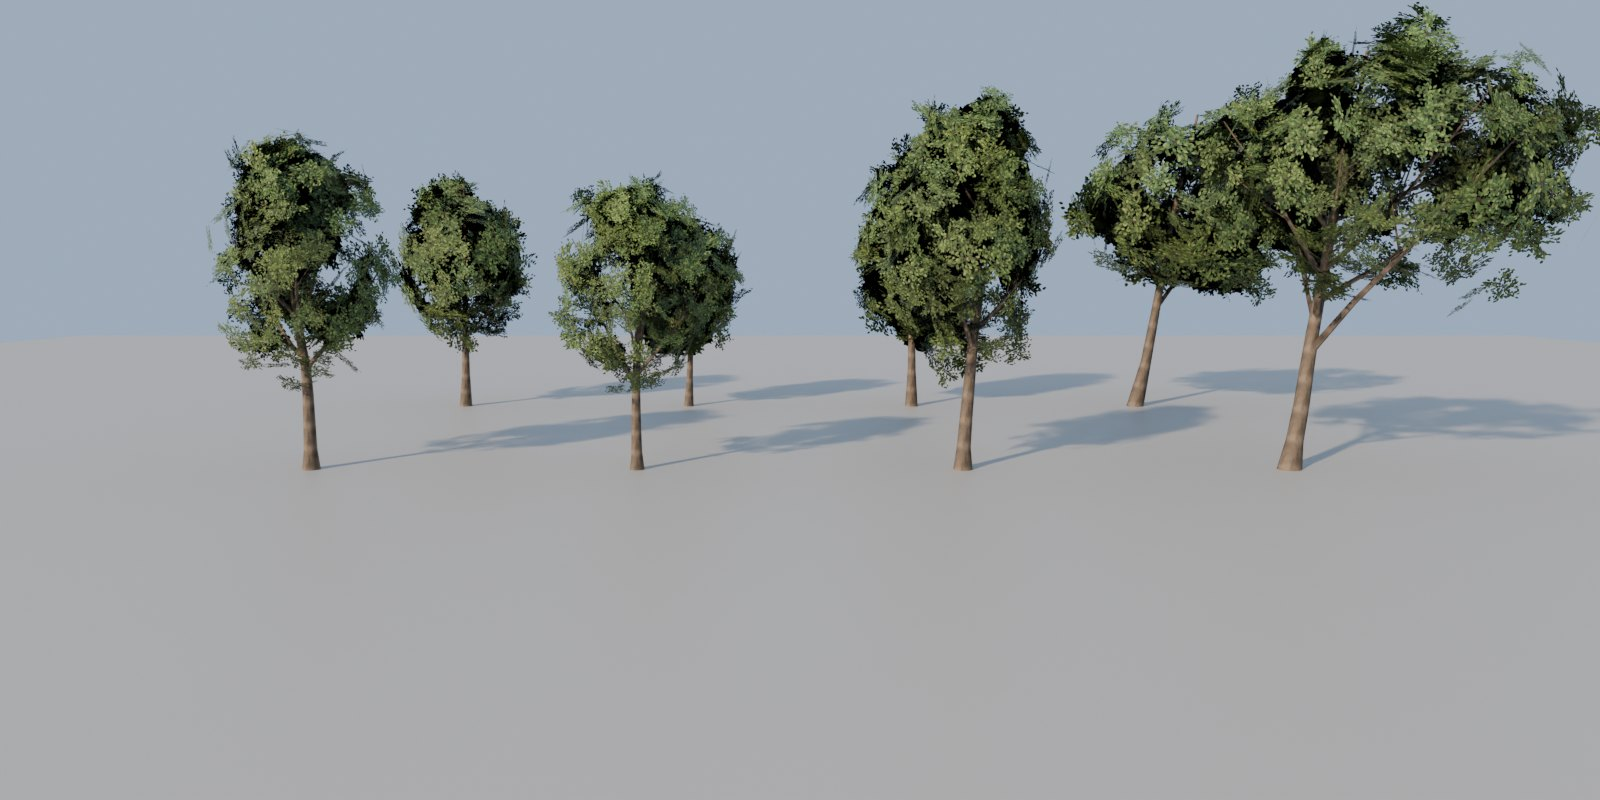
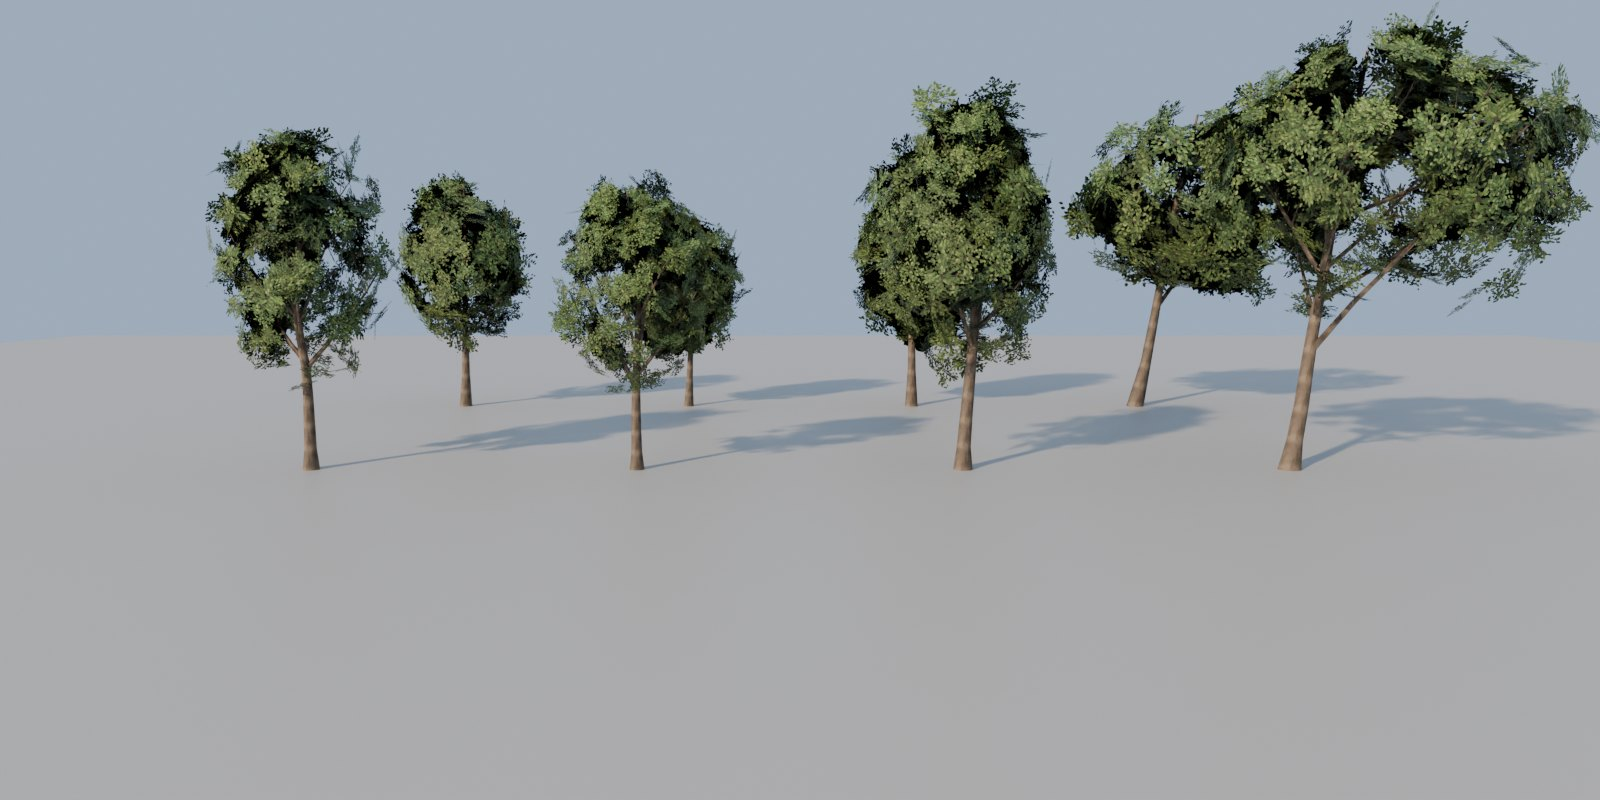
docs: record tree checks and refresh the Blender preview render
Claude-Session: https://claude.ai/code/session_01BtzidGomHJcCgLuWB6rxCd

diff --git a/docs/TREES_BLENDER.md b/docs/TREES_BLENDER.md
@@ -54,9 +54,10 @@ look on a real GPU.
 | Check | Result |
 | --- | --- |
 | `npm run verify` | 66 unit tests passed; build and artifact check passed. The dist check now requires `world/models/trees.glb`. |
-| Browser (`npm run test:browser`) | See the handoff summary for this change. |
-| Lifecycle (`npm run test:lifecycle`) | See the handoff summary for this change. |
+| Lifecycle (`npm run test:lifecycle`) | 53 passed, 9 skipped by design. |
+| Browser (`npm run test:browser`) | The asset-count test was updated for the new GLB (14 → 15 local world assets) and now passes. Five specs time out in this container on both this branch and the untouched base `02c5d48`: canvas resize ×2, touch stick ×2, and reduced-motion walk. The base also failed a sixth. The container runs Playwright 1.63 against a shimmed older Chromium on 4 CPUs, so these are not attributed to the trees. CI is the clean record. |
 | Visual | Spawn, plaza, lookback, and grove views on SwiftShader at the high tier; fallback at the low tier. |
+| Reproducibility | Re-running `tools/blender/build-trees.sh` produces a byte-identical `trees.glb`. |
 
 ## Not done / next
 
